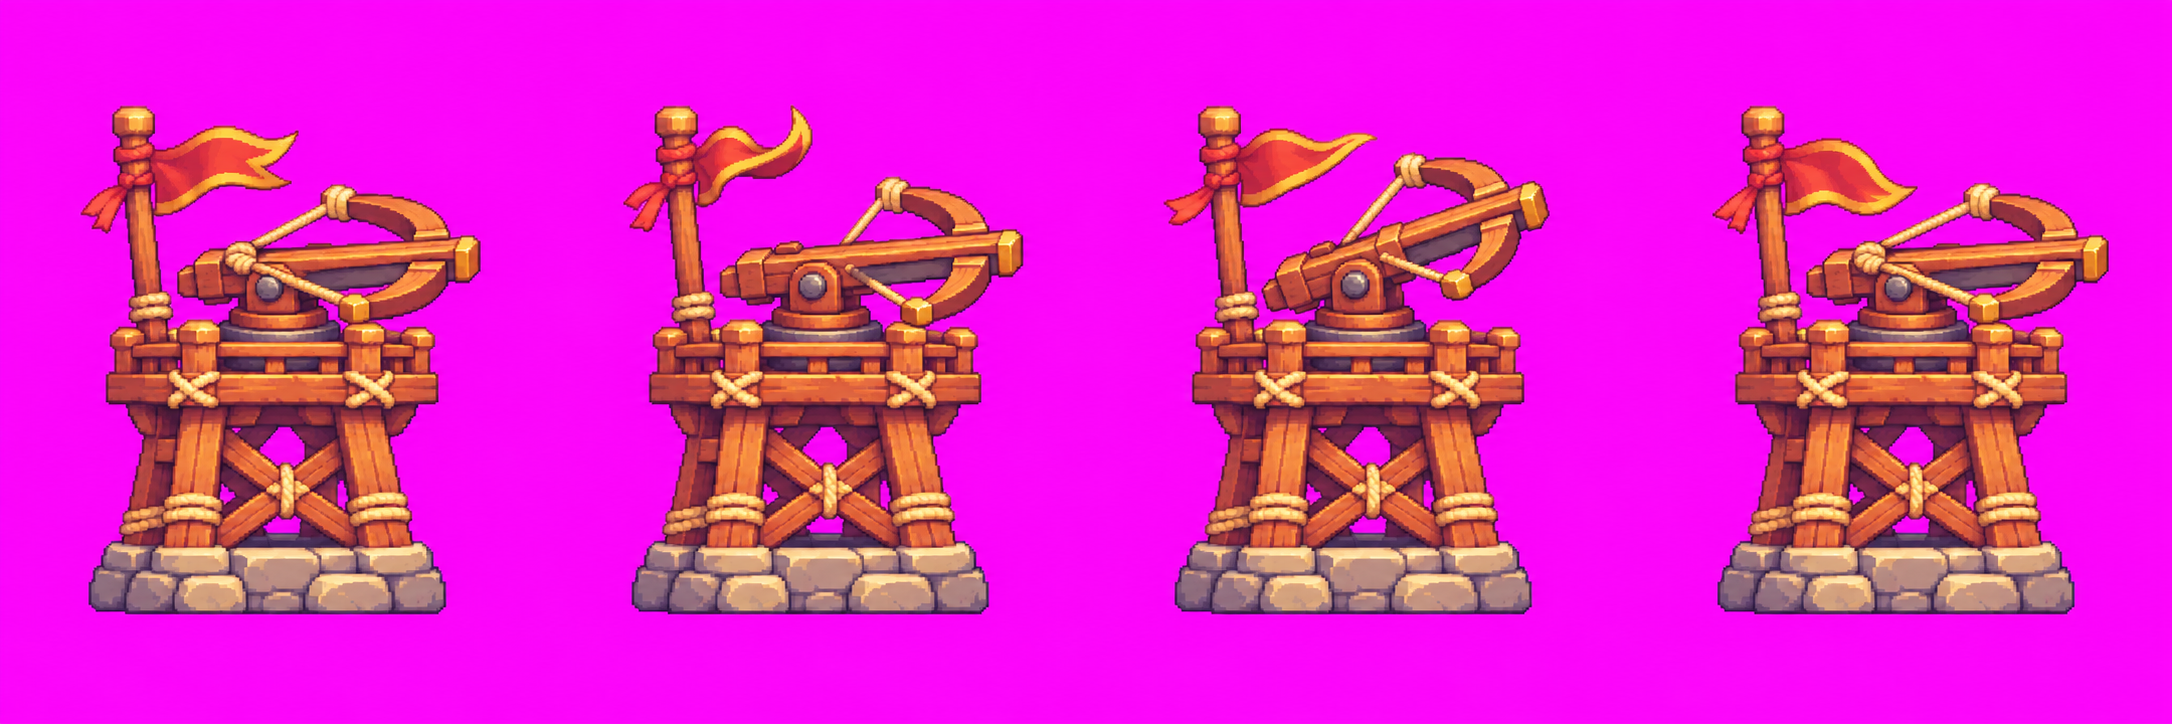
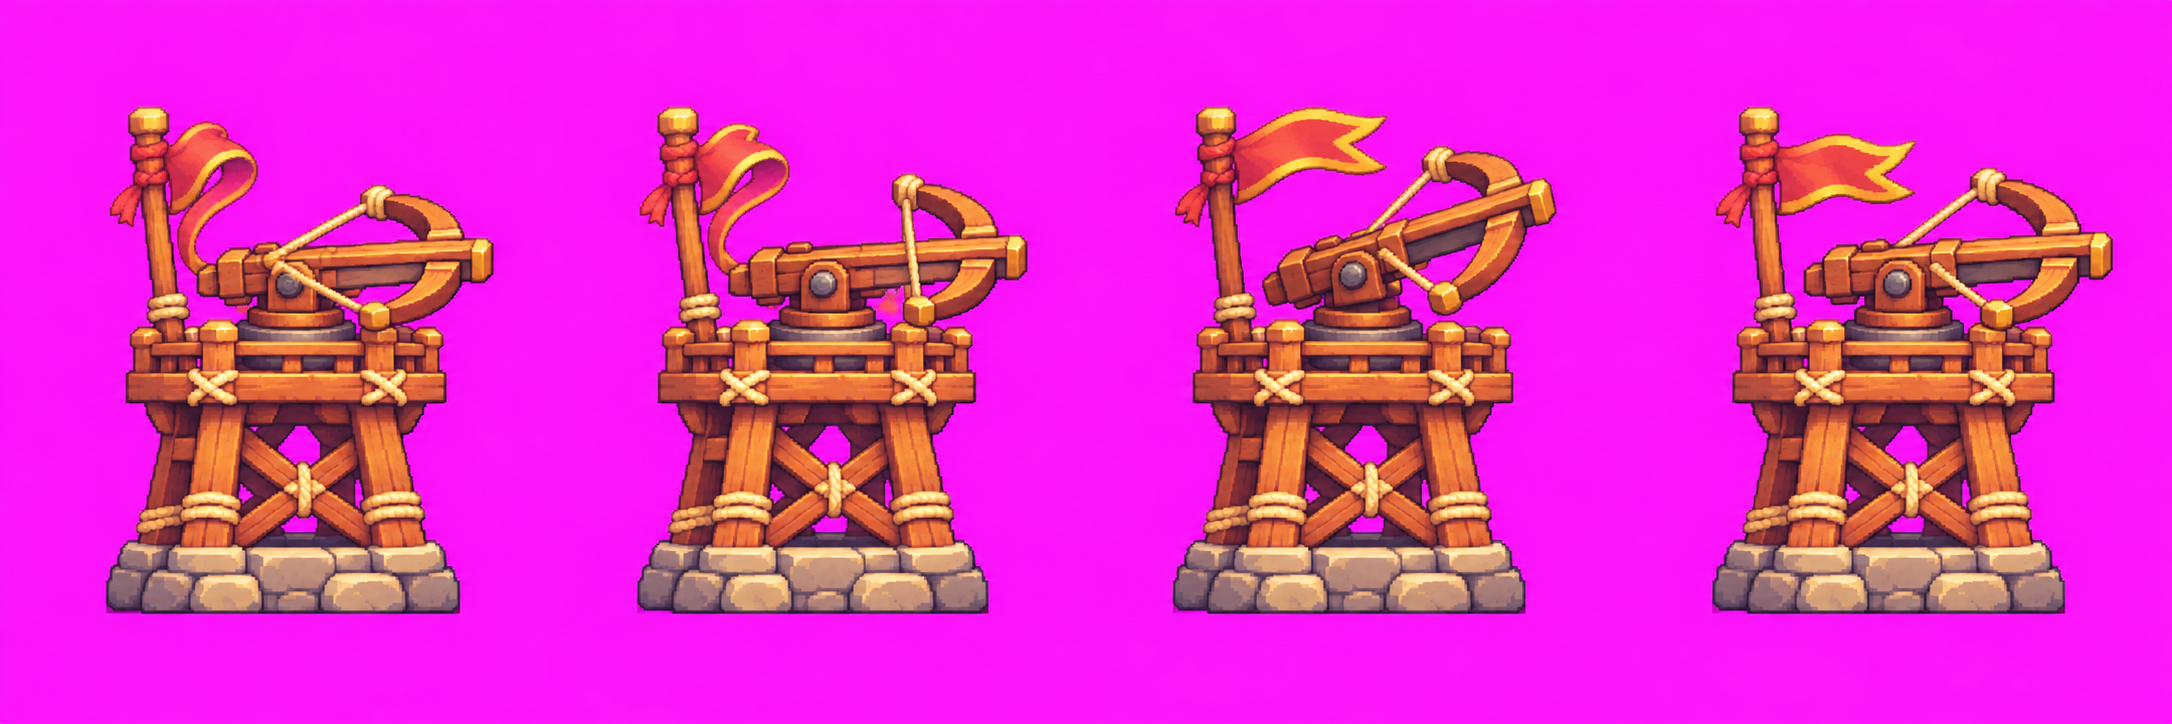
art(batch2): revise locked proportions of crossbow__t1__attack.png

diff --git a/idle-td-art/batch2/ORDER-B2.md b/idle-td-art/batch2/ORDER-B2.md
@@ -1,6 +1,6 @@
 # 放置塔防第二批點陣圖：工單 B2　塔 5 種 × 3 階
 
-狀態：進行中：ChatGPT 10:20 新增三張攻擊修訂；冰塔三階 20d9a0c 版待驗收
+狀態：進行中：ChatGPT 10:20 三張攻擊圖比例修訂
 （狀態只會是：待接手／進行中：<誰> <時間>／待驗收／完成通知）
 
 ## 固定流程
@@ -90,7 +90,7 @@ Redraw image B frame by frame using the tier <N> design from image A: EXACTLY th
 
 ## 交付紀錄
 
-- 依 2026-11-04 09:35 TW 驗收，24 張已通過；本輪僅修訂丹爐三階、鐘塔一階、冰塔二三階的六張攻擊圖。
+- 09:35 指定的六張攻擊圖修訂已交齊；10:20 複核另要求修訂弩箭一階、鐘塔三階、符咒一階攻擊。本輪僅處理新增三張，其餘圖片不重複上傳；冰塔三階 20d9a0c 版本待驗收。
 - 全部圖片在本第二批專用 ChatGPT 工作對話使用 ImageGen 製作，每次均以標準圖為第一張參考。
 - 提交生成原始 PNG；不裁切、不縮放、不替換背景，不用程式繪圖。程式僅讀取尺寸與校驗檔案；各次原圖保留在工作環境。
 - 依 2026-11-04 04:25 TW 最新流程，不用停等驗收；每張推送後 fetch 意見，有意見先改。寒冰塔升階晶體需明顯變大、變藍。
@@ -104,7 +104,6 @@ Redraw image B frame by frame using the tier <N> design from image A: EXACTLY th
 | `images/talisman__t1__stand.png` | 1254×1254 | 1 | 符咒塔 1 階首張；木柱、石座、紅繩黃符與頂部筆硯。使用已保留原檔重傳，未重畫。 |
 | `images/crossbow__t2__stand.png` | 1254×1254 | 1 | 弩箭塔 2 階：加高木石結構、青銅箍帶、雙弩與金邊紅旗。 |
 | `images/crossbow__t3__stand.png` | 1254×1254 | 1 | 弩箭塔 3 階：白玉塔身、金瓦龍角、三聯金弩、已裝填玉箭與兩枚浮空金羽。 |
-| `images/crossbow__t1__attack.png` | 2172×724 | 4 | 1 階攻擊：拉弦、釋放後座、抬弩、復位；旗幟與弩弦逐格變化，塔身底座固定。 |
 | `images/crossbow__t2__attack.png` | 2172×724 | 4 | 2 階雙弩沿用 1 階動作與四格配置；雙弩後座、弩弦與旗幟擺動，底座固定。 |
 | `images/crossbow__t3__attack.png` | 2172×724 | 4 | 3 階三聯金弩沿用攻擊節奏；弩具、旗幟與兩枚金羽逐格變化，無空中投射物。 |
 | `images/furnace__t2__stand.png` | 1254×1254 | 1 | 丹爐炮塔 2 階：青銅爐體、銅鉚釘與把手、加寬炮口、後方煙囪。 |
@@ -127,6 +126,7 @@ Redraw image B frame by frame using the tier <N> design from image A: EXACTLY th
 | `images/bell__t1__attack.png` | 2172×724 | 4 | 09:35 返工修正版：重對木架高寬與底座比例；鐘槌敲擊、鐘身擺動，第 4 格回原站立。 |
 | `images/frost__t2__attack.png` | 2172×724 | 4 | 09:35 返工修正版：保留大藍晶體，四格只移位；冰柱擺動、塔身固定，第 4 格回到站立。 |
 | `images/frost__t3__attack.png` | 2172×724 | 4 | 09:35 返工修正版：大水晶球保持四格同尺寸，只做左移、上浮、右推、回位；雪花移動，第 4 格回到站立。 |
+| `images/crossbow__t1__attack.png` | 2172×724 | 4 | 10:20 返工修正版：依站立重新生成固定木架、塔腳與平台；只動弩弦、弩身和旗子。 |
 
 原檔 SHA-256：
 
@@ -137,7 +137,6 @@ Redraw image B frame by frame using the tier <N> design from image A: EXACTLY th
[7 lines of base64/hex data omitted]
@@ -160,6 +159,7 @@ Redraw image B frame by frame using the tier <N> design from image A: EXACTLY th
[4 lines of base64/hex data omitted]
 
 ## 意見與待辦
 
@@ -184,3 +184,4 @@ Redraw image B frame by frame using the tier <N> design from image A: EXACTLY th
   - `talisman__t1__attack.png`：4 格的柱身（離地 35%）都比站立圖窄 7%。
   - 這 3 張照比例鎖重畫：塔身每格跟站立圖一樣大，只有會動的部位動。建議做法：拿站立圖本身當底，一格一格只改會動的部位。
   - 目前要重畫的：`frost__t3__attack.png`（之前就退）＋上面 3 張。
+- 2026-11-04 10:30 TW　`frost__t3__attack.png` 重畫版：水晶球已經對了，但**底座兩邊的冰晶**每格都比站立圖寬約 15%（離地 15% 量），上半的雪花也偏。冰晶是不動的部位，要跟站立圖一模一樣。再重畫一次：拿站立圖當底，只動水晶球和飄的雪花。
